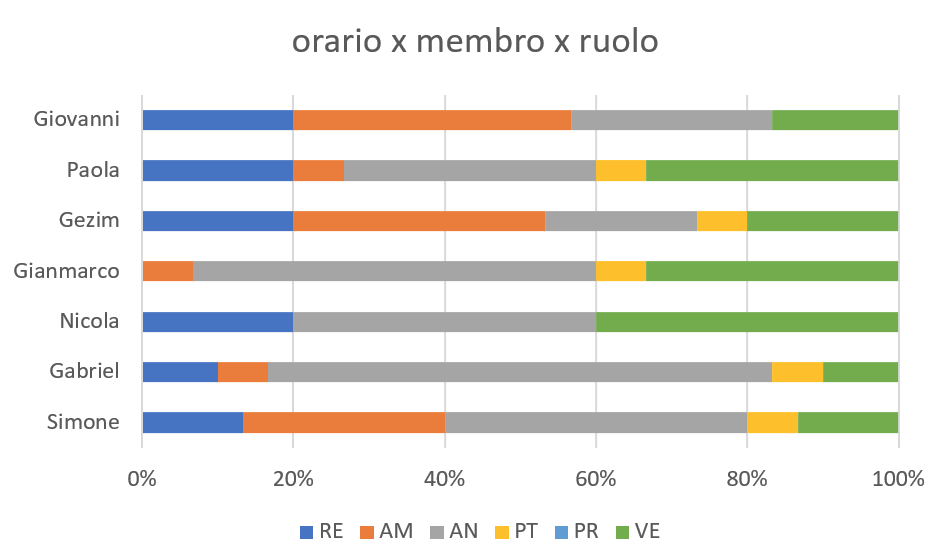
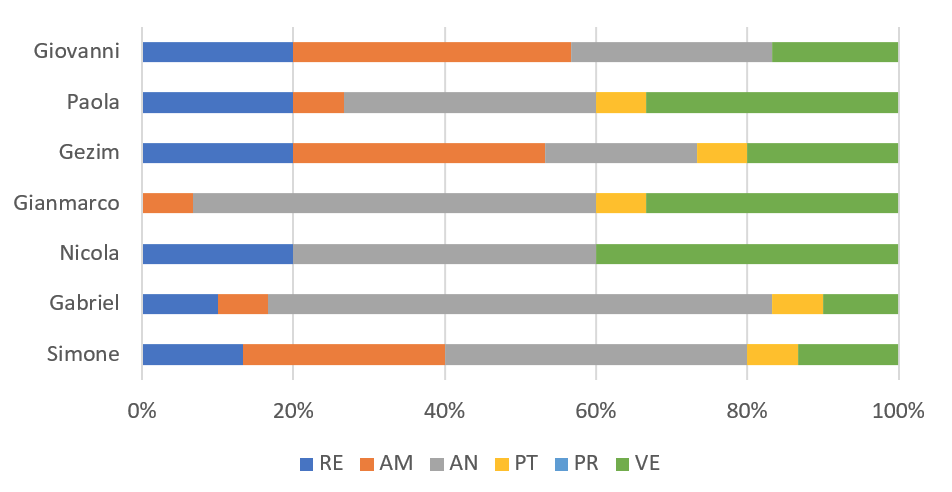
risolto errore conta Nicola

diff --git a/esterni/Piano di progetto/res/sections/preventivo.tex b/esterni/Piano di progetto/res/sections/preventivo.tex
@@ -119,33 +119,33 @@ Il team ha previsto la seguente spartizione di ruoli per questa fase del progett
  \hline\hline
  Simone			& 5 		& 0		& 6 	& 10 	& 4 		& 0 		& 25\\
  Gabriel		& 0 		& 5 		& 0 	& 12		& 8 		& 0 		& 25\\
- Nicola			& 0 		& 2 		& 0 	& 5 		& 5 		& 8 		& 25\\
+ Nicola			& 0 		& 2 		& 0 	& 7 		& 8 		& 8 		& 25\\
  Gianmarco		& 5 		& 8 		& 0 	& 10 	& 0 		& 2 		& 25\\
  Gezim			& 0 		& 0 		& 10 	& 5 		& 4 		& 6	 	& 25\\
  Paola			& 0 		& 4 		& 6 	& 9 		& 0 		& 6 		& 25\\
  Giovanni		& 0 		& 0	 	& 5 	& 5 		& 5 		& 10  	& 25\\
  \hline\hline
- Ore totali		& 10		& 19		& 27 	& 56	 	& 26 	& 32 	& 170\\
+ Ore totali		& 10		& 19		& 27 	& 58	 	& 29 	& 32 	& 175\\
   \hline
 \end{tabular}
 \end{center}
-\includegraphics[width=\textwidth]{res/img/hi33}
+\includegraphics[width=\textwidth]{res/img/hi334}
 \subsubsection{Prospetto economico}
-In base alle ore necessarie per il completamento di questa fase, il valore economico totale è di 3.847,00 EUR.
+In base alle ore necessarie per il completamento di questa fase, il valore economico totale è di 3.981,00 EUR.
 \begin{center}
 \begin{tabular}{ |c|c|c|  }
  \hline
  Ruolo 		& Ammontare ore 	& Totale (EUR)\\
  	\hline
  \hline
- 	Responsabile	& 10 		& 300\\
+ 	Responsabile	& 10 	& 300\\
 	Amministratore	& 19		& 380\\
 	Analista		& 27 	& 675\\
-	Progettista		& 56		& 1232\\
-	Programmatore	& 26		& 780\\
+	Progettista		& 58		& 1276\\
+	Programmatore	& 29		& 870\\
 	Verificatore	& 32 	& 480\\
  \hline\hline
- TOTALE		& 170		& 3847\\
+ TOTALE		& 175		& 3981\\
   \hline
 \end{tabular}
 \end{center}
@@ -248,17 +248,17 @@ Il team ha previsto la seguente spartizione di ruoli per il completamento del pr
  \hline\hline
  Simone			& 13 		& 16			& 23 		& 24 		& 33 		& 26 		& 135\\
  Gabriel		& 8 			& 13 		& 22 		& 28		& 40 		& 24 		& 135\\
- Nicola			& 11 		& 14 		& 16 		& 20 		& 29 		& 40 		& 135\\
+ Nicola			& 11 		& 14 		& 16 		& 22 		& 32 		& 40 		& 135\\
  Gianmarco		& 12 		& 16 		& 18 		& 27	 	& 34 		& 28 		& 135\\
  Gezim			& 11 		& 18 		& 18 		& 19 		& 36 		& 33	 	& 135\\
  Paola			& 15 		& 12 		& 24 		& 26 		& 28 		& 30 		& 135\\
  Giovanni		& 13 		& 17	 		& 16 		& 17 		& 41	 	& 31  		& 135\\
  \hline\hline
- Ore totali		& 83 	& 106		& 137 	& 161 	& 241 	& 212 	& 940\\
+ Ore totali		& 83 	& 106		& 137 	& 163 	& 244 	& 212 	& 945\\
   \hline
 \end{tabular}
 \end{center}
-\includegraphics[width=\textwidth]{res/img/hip}
+\includegraphics[width=\textwidth]{res/img/hip2}
 \\
 \subsubsection{Prospetto economico}
 In base alle ore necessarie per il completamento di questo progetto, il valore economico totale è di 21.987,00 EUR.
@@ -271,17 +271,17 @@ In base alle ore necessarie per il completamento di questo progetto, il valore e
  	Responsabile	& 83 	& 2490\\
 	Amministratore	& 106		& 2120\\
 	Analista		& 137 		& 3425\\
-	Progettista		& 161		& 3542\\
-	Programmatore	& 241		& 7230\\
+	Progettista		& 163		& 3586\\
+	Programmatore	& 244		& 7320\\
 	Verificatore	& 212 	& 3180\\
  \hline\hline
- TOTALE		& 940		& 21987\\
+ TOTALE		& 945		& 22121\\
   \hline
 \end{tabular}
 \end{center}
 
 \subsubsection{Conclusioni}
-Il valore economico del progetto è di 21987 EUR. Tuttavia a questo totale bisogna sottrarre il corrispettivo delle fasi \textit{Analisi (4.700,00 EUR)} e \textit{Presentazione (770,00 EUR)} in quanto tali fasi non producono valore per il committente.
+Il valore economico del progetto è di 22.121,00 EUR. Tuttavia a questo totale bisogna sottrarre il corrispettivo delle fasi \textit{Analisi (4.700,00 EUR)} e \textit{Presentazione (770,00 EUR)} in quanto tali fasi non producono valore per il committente.
 \newline
 \newline
-In conclusione, il totale preventivato per la realizzazione del progetto \textit{Etherless} è di\\ \textbf{16.517,00 EUR}.
+In conclusione, il totale preventivato per la realizzazione del progetto \textit{Etherless} è di\\ \textbf{16.651,00 EUR}.
